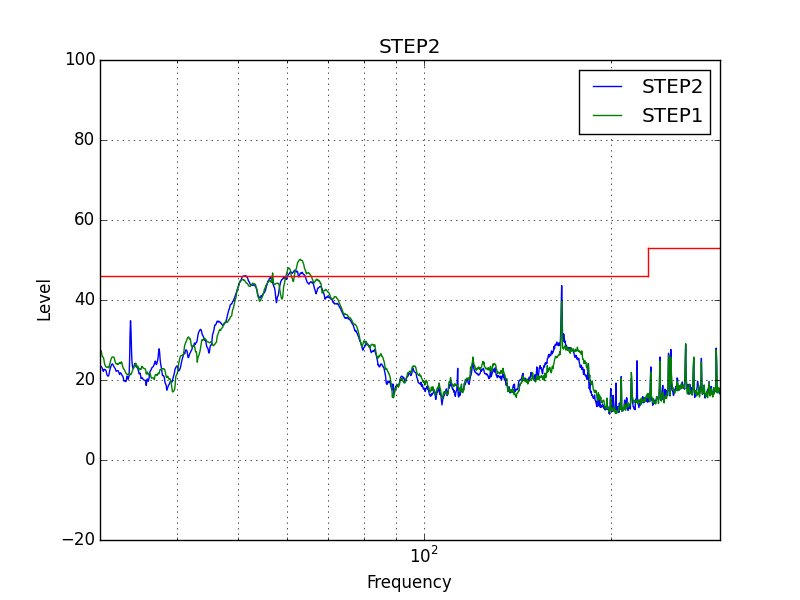
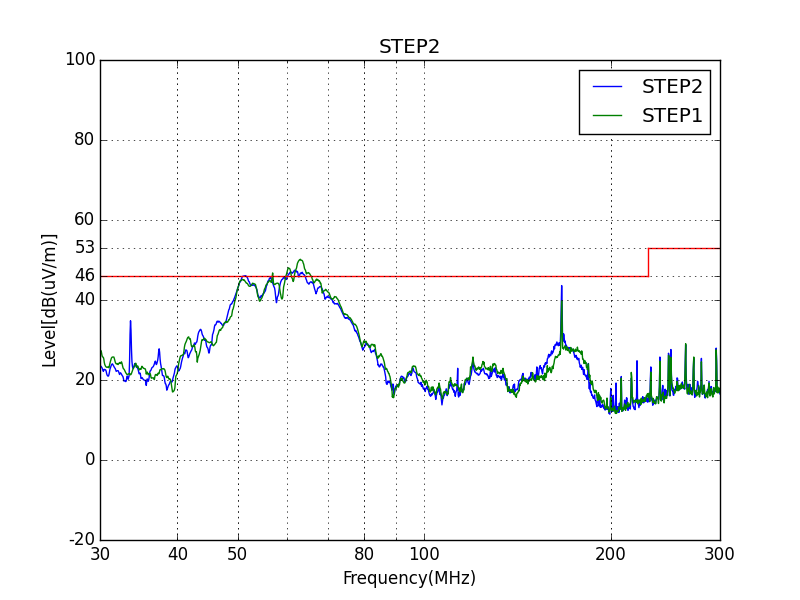
Modify plot style.

diff --git a/SMEC_EMC_FIG/datachk.py b/SMEC_EMC_FIG/datachk.py
@@ -76,11 +76,15 @@ class ReportMaker(object):
             pl.title("STEP"+str(n+1))
             pl.xlim(plot_data[0][0], plot_data[0][-1])
             pl.ylim(-20,100)
+            # pl.xscale('symlog')
+            # pl.yscale('symlog', linthreshy=0.015)
+            pl.xticks([30,40,50,80,100,200,300],['30','40','50','80','100','200','300'])
+            pl.yticks([-20,0,20,40,46,53,60,80,100],['-20','0','20','40','46','53','60','80','100'])
             pl.axhline(y=46, xmin=0, xmax=0.8846, color='r')
             pl.axhline(y=53, xmin=0.8846, xmax=1, color='r')
             pl.axvline(x=230, ymin=0.55, ymax=0.6083, color='r')
-            pl.xlabel("Frequency")
-            pl.ylabel("Level")
+            pl.xlabel(u"Frequency(MHz)")
+            pl.ylabel(u"Level[dB(uV/m)]")
             pl.grid(b=True, which='both')
             pl.legend()
             pl.savefig(plot_name)
